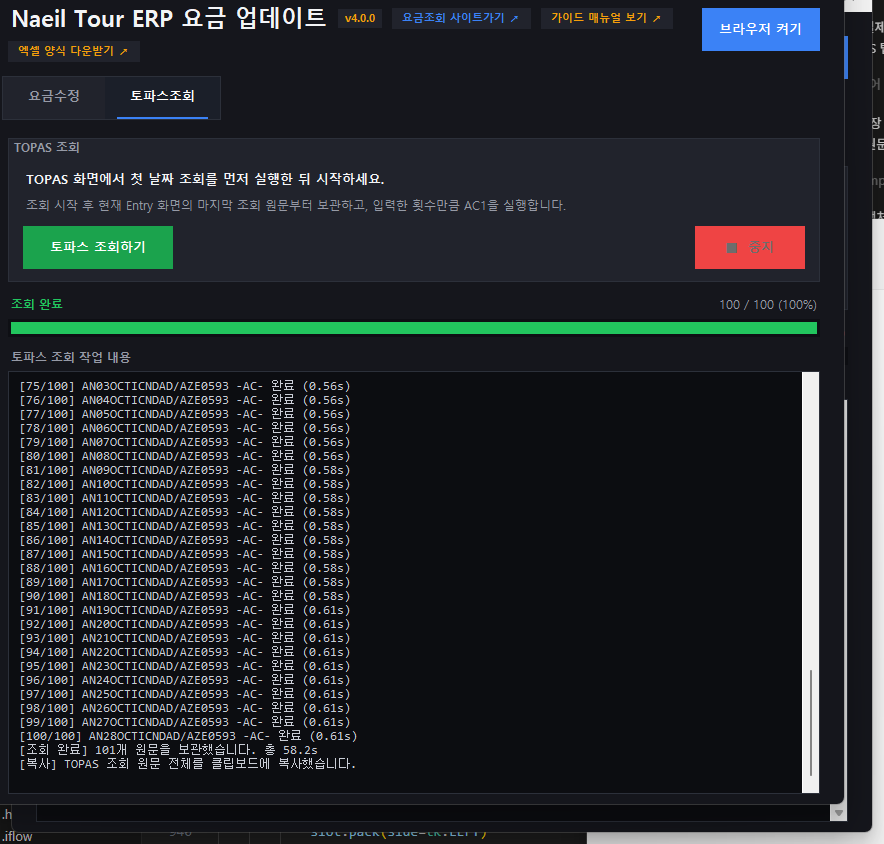
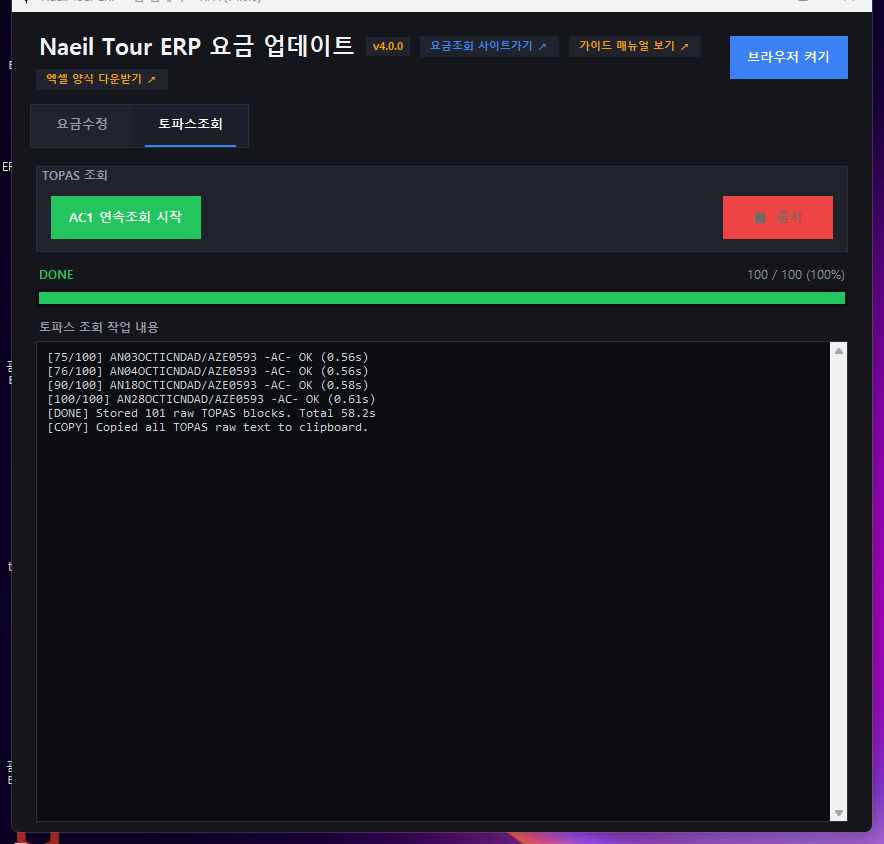
polish: simplify TOPAS action copy

diff --git a/사용가이드.html b/사용가이드.html
@@ -864,7 +864,7 @@
 
         <div class="image-container">
           <img src="assets/topas_01_tab_ready.png" alt="TOPAS 조회 탭 기본 화면">
-          <span class="image-caption">그림 6. <strong>토파스조회</strong> 탭 기본 화면 — 첫 조회 완료 후 <code>토파스 조회하기</code>로 AC1 반복 조회를 시작합니다.</span>
+          <span class="image-caption">그림 6. <strong>토파스조회</strong> 탭 기본 화면 — 첫 조회 완료 후 <code>AC1 연속조회 시작</code>으로 AC1 반복 조회를 시작합니다.</span>
         </div>
 
         <ul class="step-list">
@@ -900,8 +900,8 @@
           <li class="step-item">
             <div class="step-number">4</div>
             <div class="step-text">
-              <strong>토파스 조회하기 실행</strong>:<br>
-              프로그램의 <code>토파스 조회하기</code> 버튼을 누르면 조회 횟수 입력창이 뜹니다. 여기에 실행할 <code>AC1</code> 횟수를 숫자로 입력합니다. 예를 들어 <code>200</code>을 입력하면 첫 조회 다음 날짜부터 200번의 다음날 조회를 실행합니다.
+              <strong>AC1 연속조회 시작</strong>:<br>
+              프로그램의 <code>AC1 연속조회 시작</code> 버튼을 누르면 조회 횟수 입력창이 뜹니다. 여기에 실행할 <code>AC1</code> 횟수를 숫자로 입력합니다. 예를 들어 <code>200</code>을 입력하면 첫 조회 다음 날짜부터 200번의 다음날 조회를 실행합니다.
             </div>
           </li>
         </ul>

diff --git a/gui.py b/gui.py
@@ -1019,28 +1019,12 @@ class RpaGuiApp:
         )
         topas_card.pack(fill=tk.X, padx=6, pady=(10, 10))
 
-        tk.Label(
-            topas_card,
-            text='TOPAS 화면에서 첫 날짜 조회를 먼저 실행한 뒤 시작하세요.',
-            font=('맑은 고딕', 10, 'bold'),
-            bg=self.card_color,
-            fg=self.fg_color,
-        ).pack(anchor=tk.W)
-
-        tk.Label(
-            topas_card,
-            text='조회 시작 후 현재 Entry 화면의 마지막 조회 원문부터 보관하고, 입력한 횟수만큼 AC1을 실행합니다.',
-            font=('맑은 고딕', 9),
-            bg=self.card_color,
-            fg=self.fg_muted,
-        ).pack(anchor=tk.W, pady=(4, 10))
-
         topas_actions = tk.Frame(topas_card, bg=self.card_color)
         topas_actions.pack(fill=tk.X)
 
         self.topas_query_btn = tk.Button(
             topas_actions,
-            text='토파스 조회하기',
+            text='AC1 연속조회 시작',
             width=18,
             height=2,
             bg=self.accent_green,
